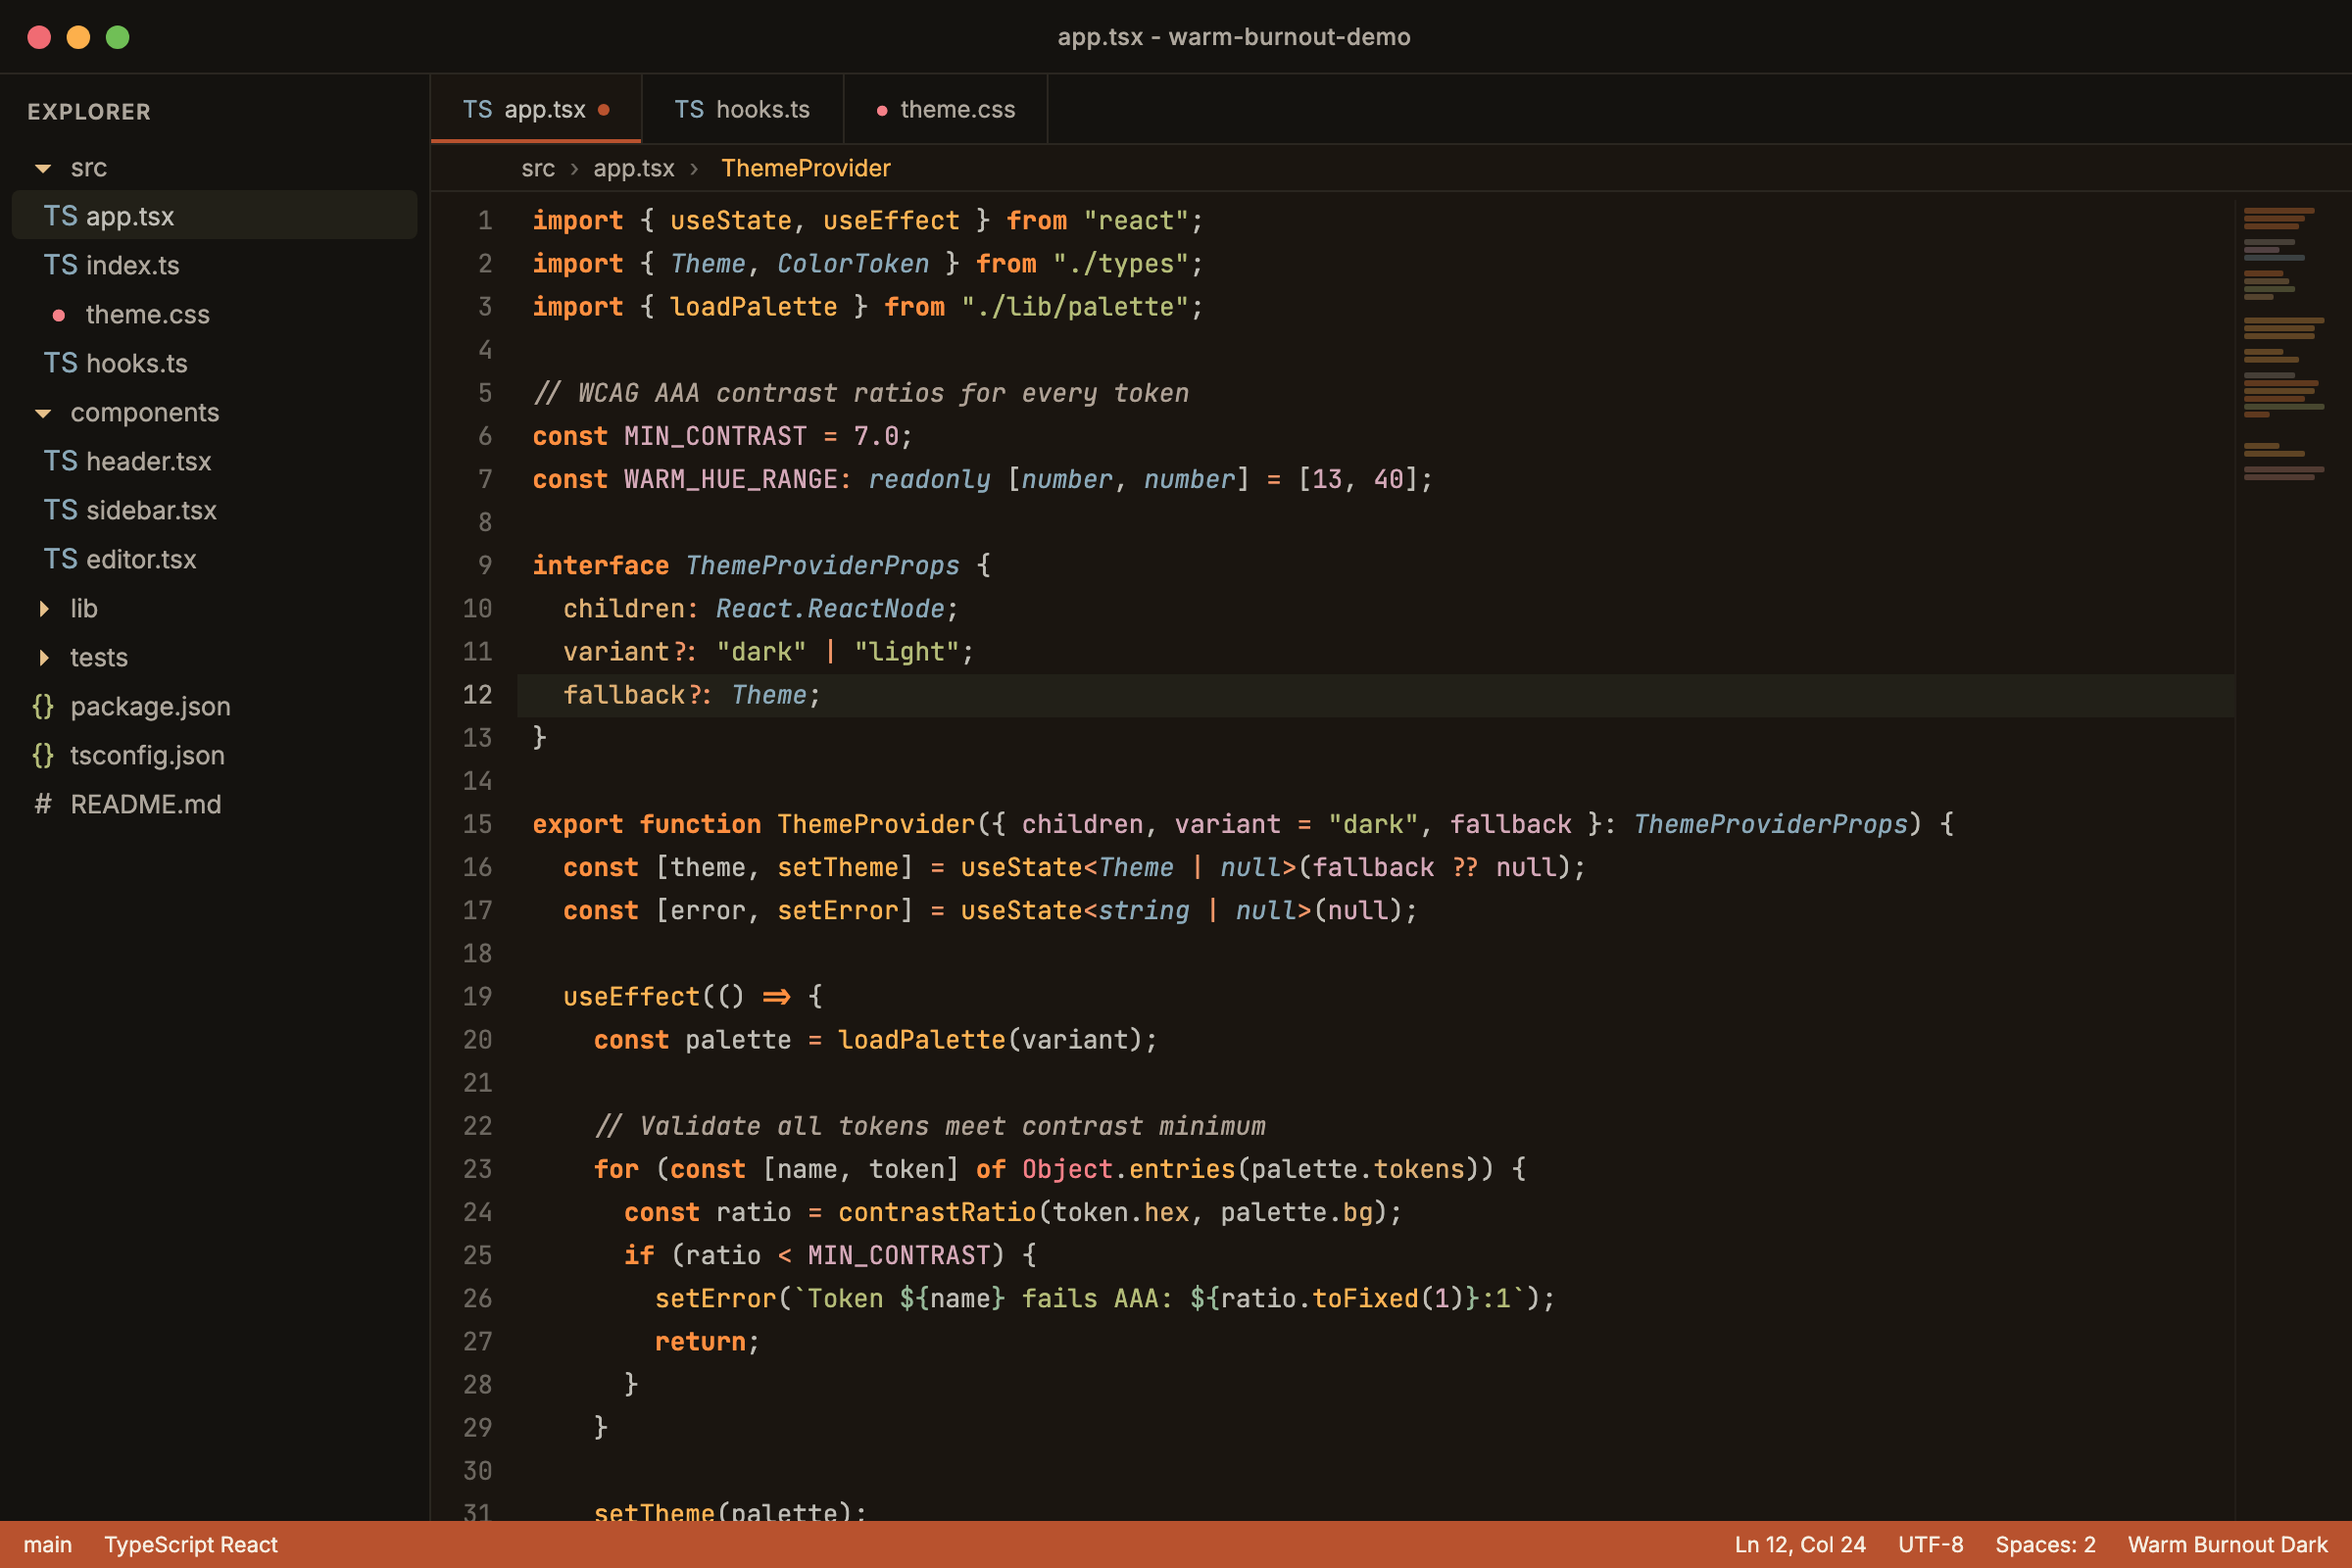
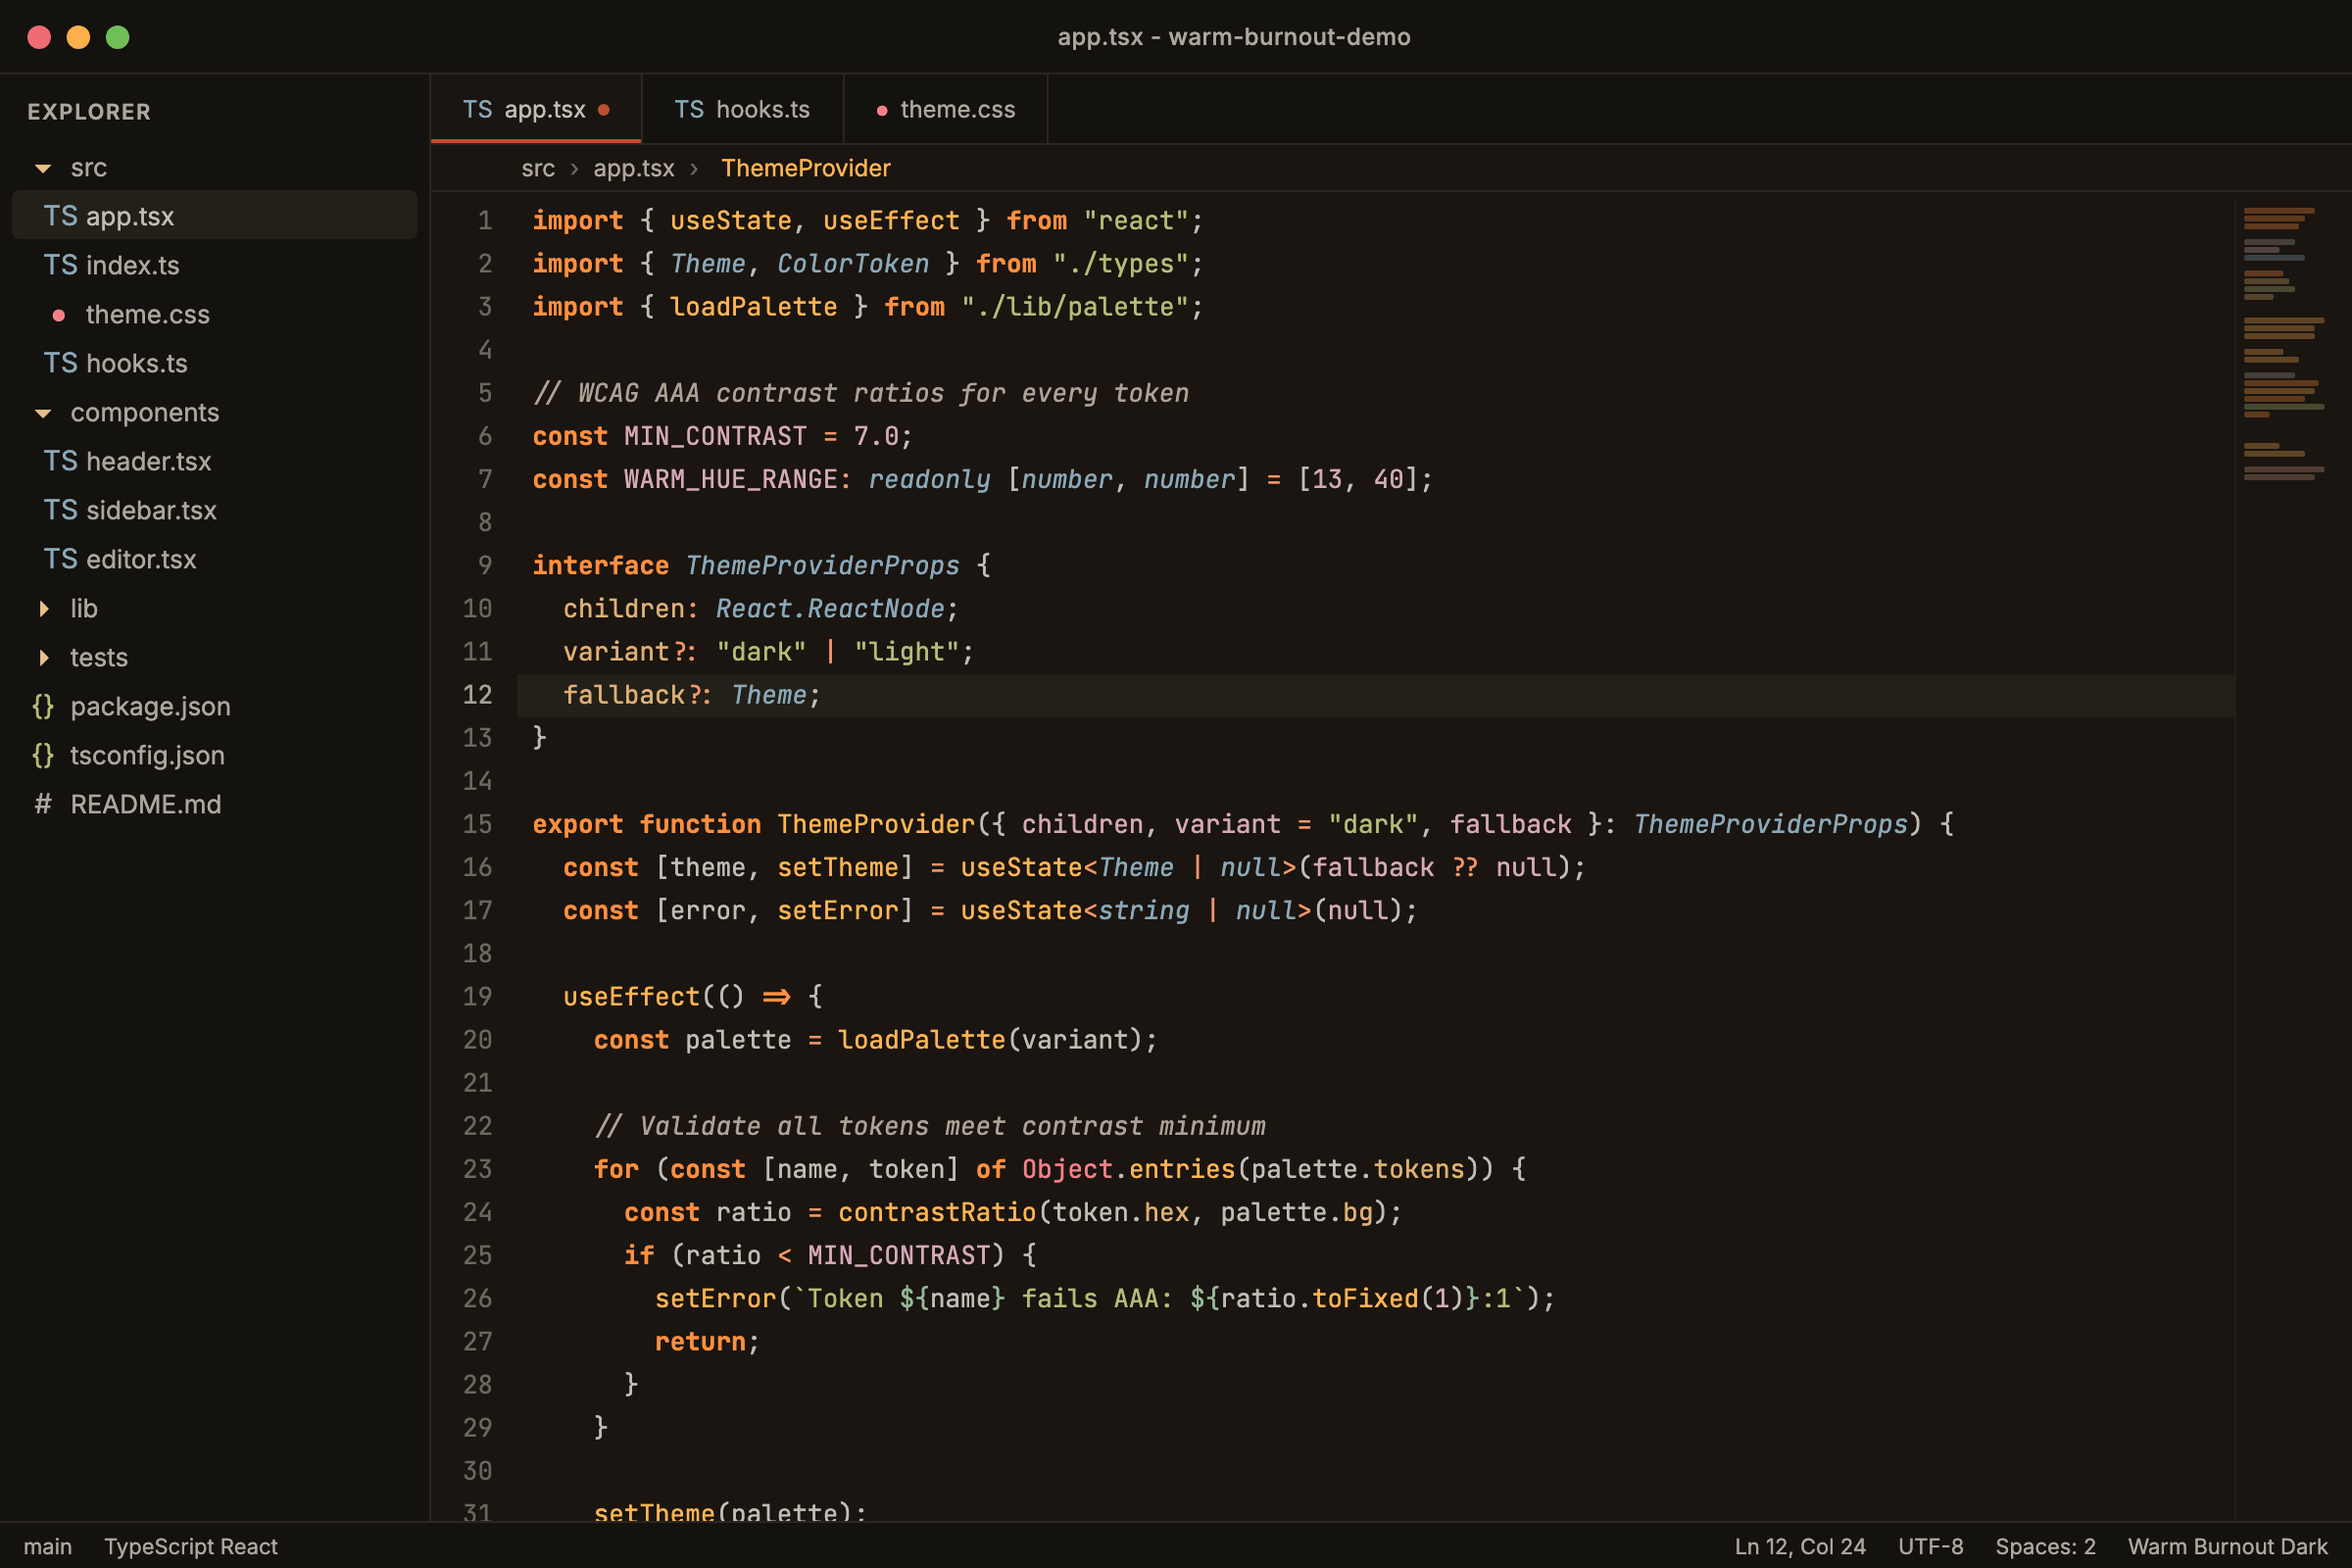
Fix status bar color in editor screenshots
Was using accent color (#b8522e), now matches the actual VS Code theme:
dark #14120f bg with #ada69c text, light #EDE6DA bg with #5c5750 text.

Changed region(s): [[0.0, 0.9688, 1.0, 1.0]]

diff --git a/screenshots/editor-dark.html b/screenshots/editor-dark.html
@@ -239,17 +239,18 @@
     opacity: 0.6;
   }
 
-  /* Status bar */
+  /* Status bar (matches vscode statusBar.background / statusBar.foreground) */
   .statusbar {
     height: 24px;
-    background: var(--accent);
+    background: var(--bg-dim);
     display: flex;
     align-items: center;
     padding: 0 12px;
     font-size: 11px;
-    color: #f5ede0;
+    color: var(--fg-dim);
     gap: 16px;
     flex-shrink: 0;
+    border-top: 1px solid var(--border);
   }
   .statusbar-right {
     margin-left: auto;

diff --git a/screenshots/split-comparison.html b/screenshots/split-comparison.html
@@ -186,15 +186,16 @@
 
   .footer {
     height: 28px;
-    background: var(--accent);
+    background: var(--bg-dim);
     display: flex;
     align-items: center;
     justify-content: center;
     font-size: 11px;
-    color: #f5ede0;
+    color: var(--fg-dim);
     font-weight: 500;
     letter-spacing: 0.3px;
     flex-shrink: 0;
+    border-top: 1px solid var(--border);
   }
 </style>
 </head>

diff --git a/screenshots/editor-light.html b/screenshots/editor-light.html
@@ -228,14 +228,15 @@
 
   .statusbar {
     height: 24px;
-    background: var(--accent);
+    background: var(--bg-dim);
     display: flex;
     align-items: center;
     padding: 0 12px;
     font-size: 11px;
-    color: #f5ede0;
+    color: var(--fg-dim);
     gap: 16px;
     flex-shrink: 0;
+    border-top: 1px solid var(--border);
   }
   .statusbar-right {
     margin-left: auto;
